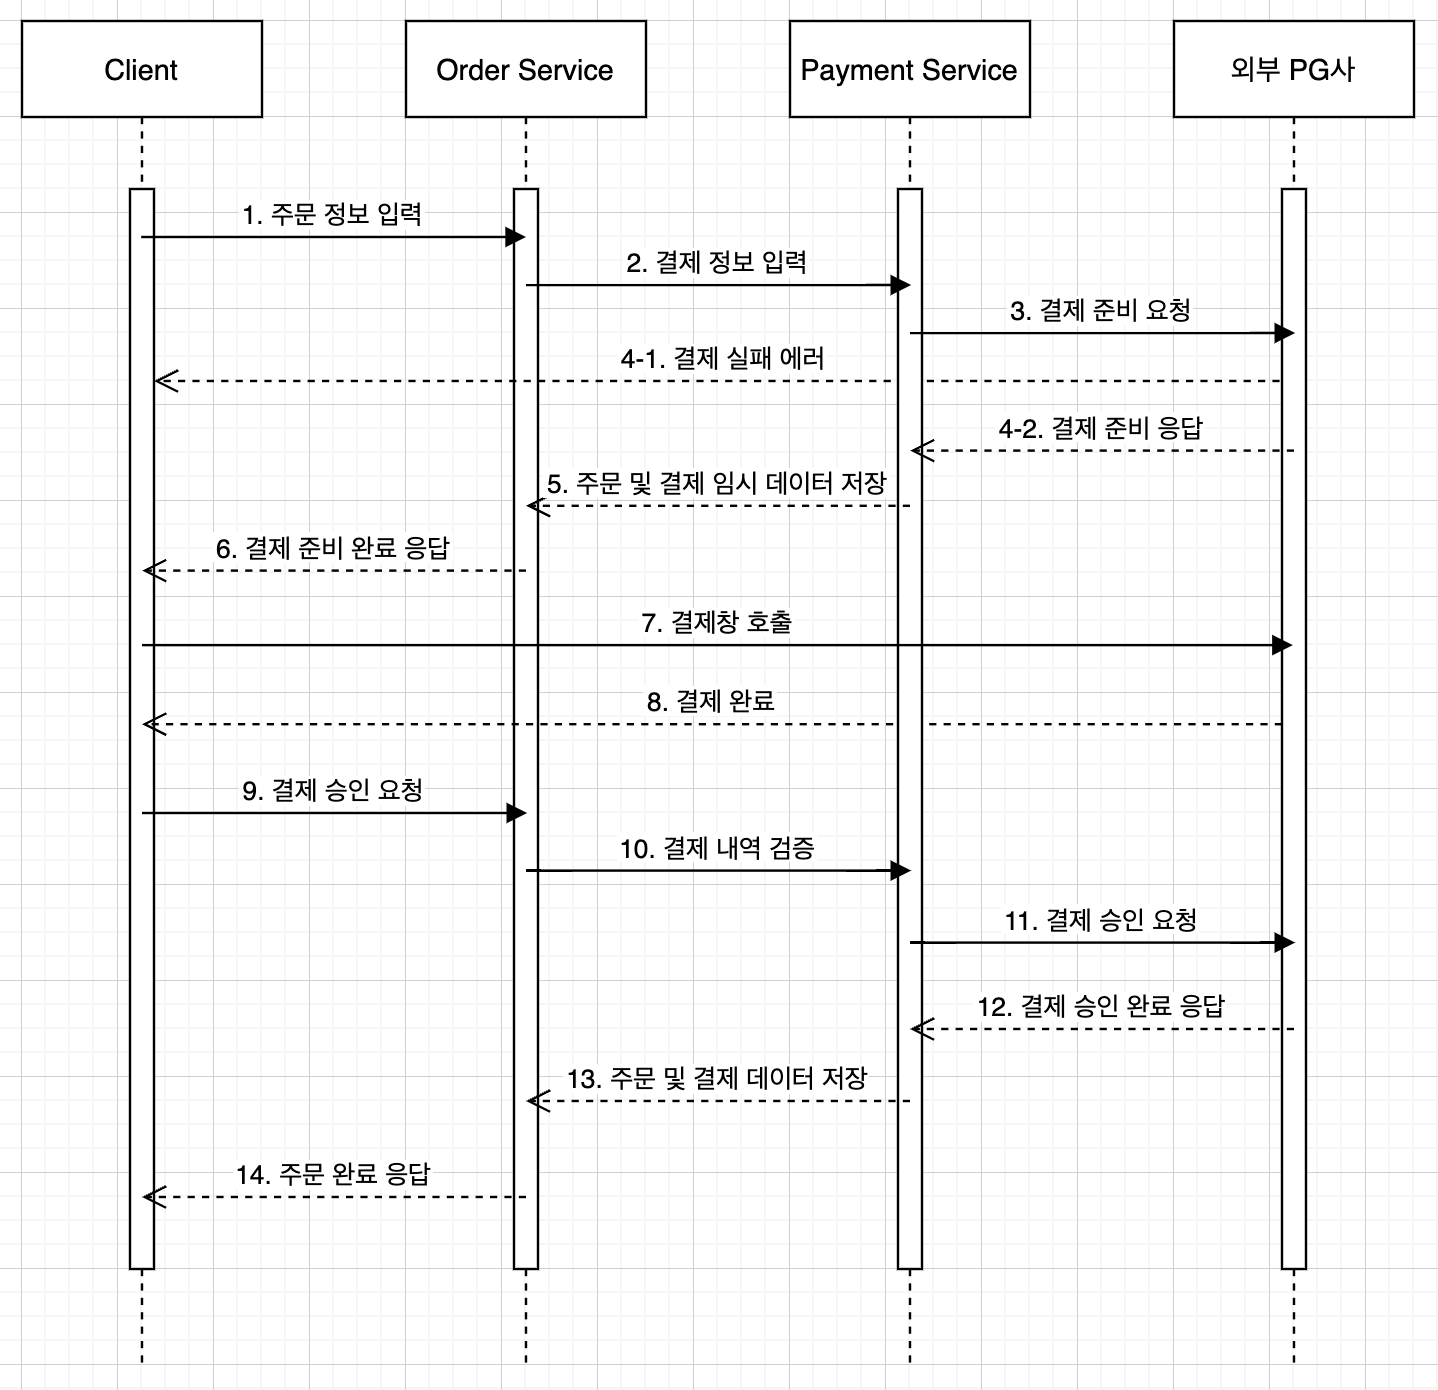
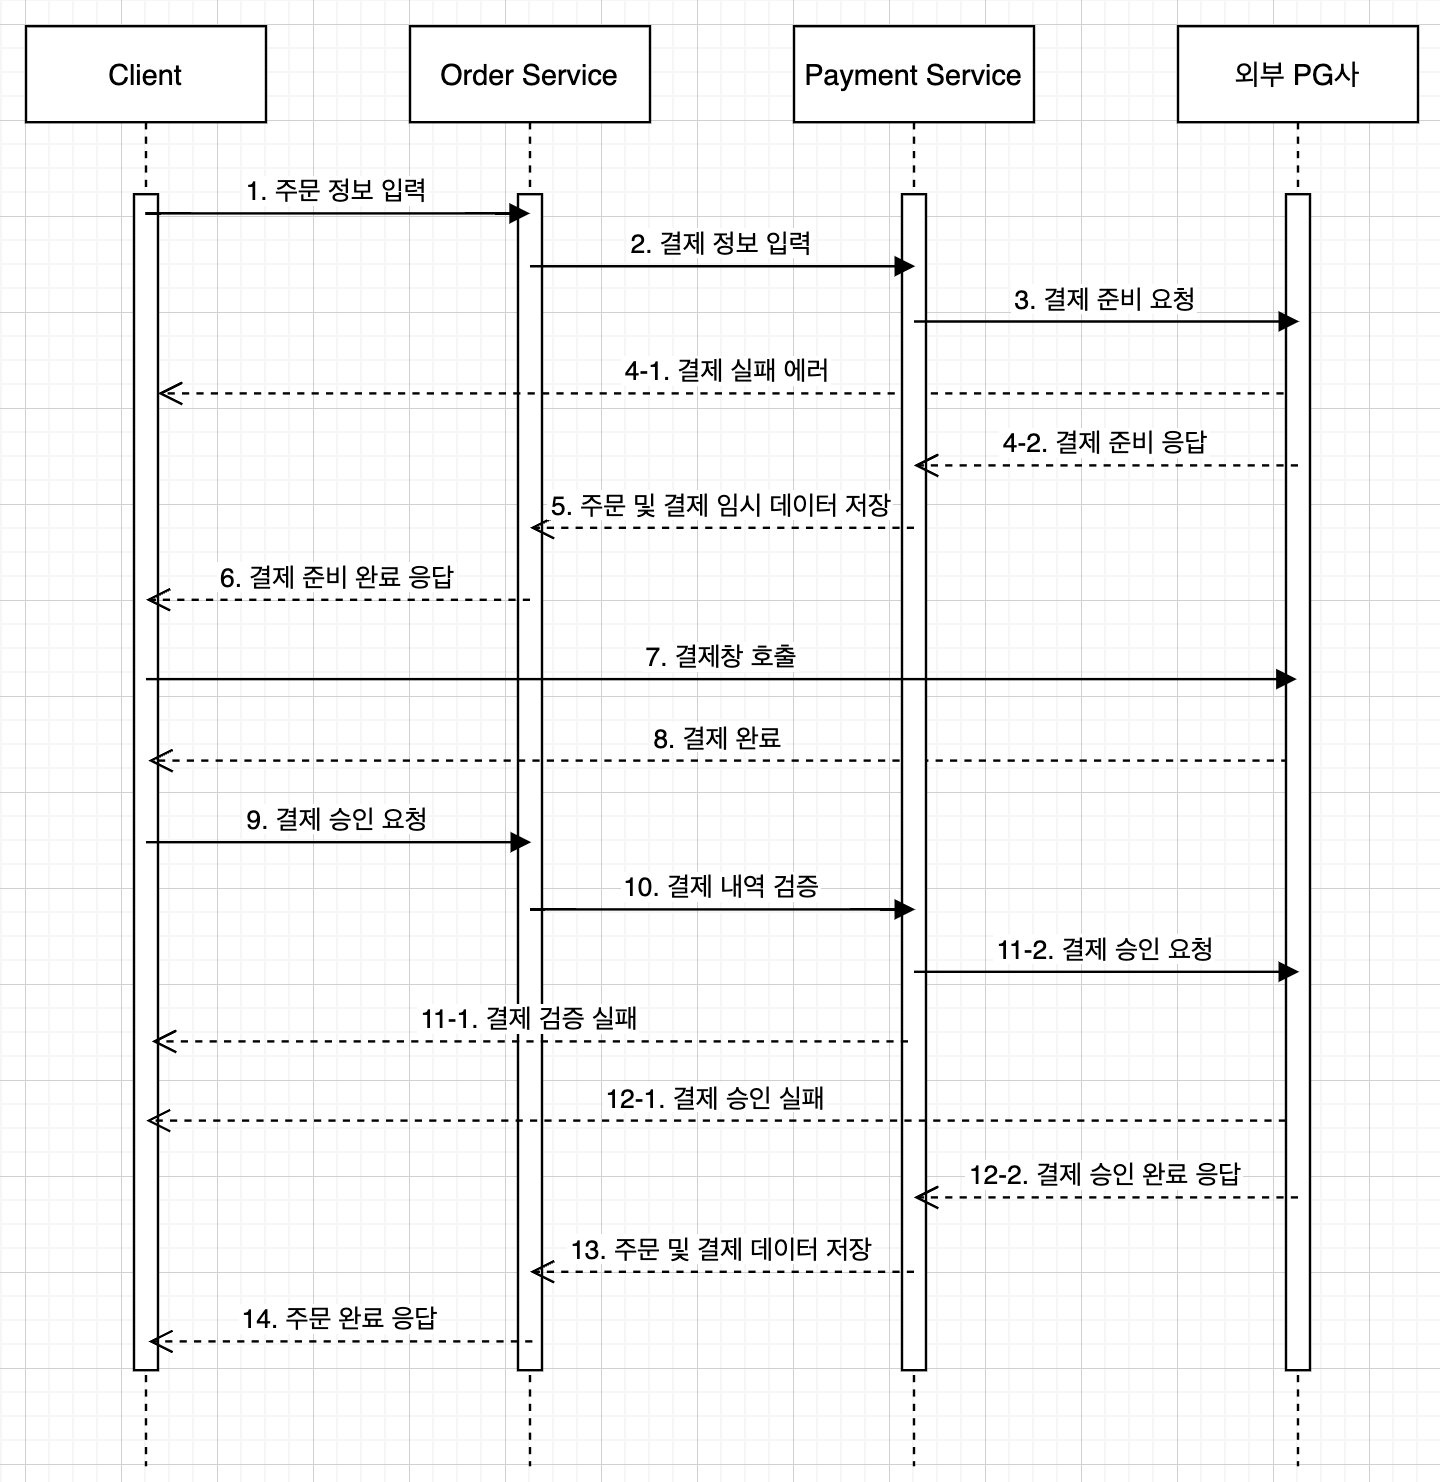
docs: 주문 결제 시스템 flow 작성

diff --git a/README.md b/README.md
@@ -9,13 +9,23 @@
 
 ![주문, 결제 시퀀스 다이어그램](img/Order_Payment_Sequence_Diagram.png)
 
-1. 클라이언트에서 카드 정보를 PG 결제 창에 등록한다 (생략)
-2. 카드 유효성 체크 결과를 Backend 서버로 redirect
-
-3. (성공 시) PG 서버에 인증용 토큰 발급 요청
-   <br/>(실패 시) 클라이언트로 실패 화면 응답 return
-
-4. 결재 성공 화면 응답 return
+1. 클라이언트에서 주문 정보를 입력한다.
+2. `OrderService`에서 클라이언트가 준 주문 정보 DTO를 가공하여 `PaymentService`로 결제 정보 DTO를 전송한다.
+3. 외부 PG사로 결제 준비 요청을 전송한다.
+4. (성공 시) 외부 PG사로부터 결제 준비 응답을 받는다.
+   (실패 시) 결제 준비 과정에서 에러가 발생한 경우, 클라이언트로 에러가 전파된다.
+5. 주문 및 결제 데이터를 레디스에 저장한다.
+6. 외부 PG사로부터 온 결제 준비 응답을 가공하여 클라이언트로 결제 준비 완료 응답 DTO를 전송한다.
+7. 클라이언트에서 전달 받은 Url로 리다이렉트한다.
+8. 외부 PG사에서 클라이언트에 직접적으로 결제 완료 응답을 보낸다.
+9. 클라이언트에서 외부 PG사에서 직접적으로 받은 응답을 토대로 `OrderService`에 결제 승인 요청을 보낸다.
+10. `OrderService`에서 전달 받은 DTO를 토대로 유효성 검사를 한다.
+11. (성공 시) 외부 PG사로 결제 승인을 요청한다.
+    (실패 시) 유효성 검사에 실패한 경우, 클라이언트로 결제 승인 실패 응답을 보낸다.
+12. (성공 시) 외부 PG사로부터 결제 승인 완료 응답을 받는다.
+    (실패 시) 결제 승인 과정에서 에러가 발생한 경우, 클라이언트로 에러가 전파된다.
+13. 결제 승인이 완료되었으므로, 주문 및 결제 데이터를 RDB에 저장한다.
+14. 클라이언트로 주문 완료 응답을 보낸다.
 
 ## ERD
 
